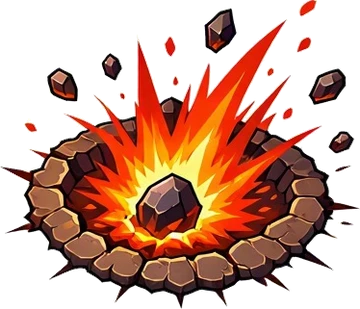
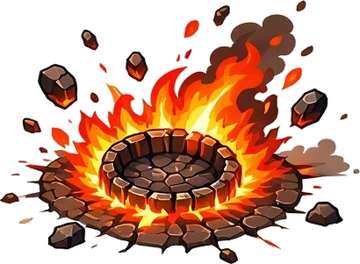
Brann y Merlo con su set nuevo

diff --git a/js/data.js b/js/data.js
@@ -527,8 +527,8 @@ function pickTileTypes(n, rnd, skip) {
    (aria: segundos de congelación · merlo: maná · brann: daño del meteoro). */
 var COMMANDERS = {
   aria:  { name: 'Aria',  title: 'Capitana de Escarcha', color: '#7fd6ff', icon: '🌨', pic: 'assets/commanders/aria.webp?v=3', ability: 'Ventisca',  desc: 'Congela a todos los enemigos 3 segundos.', power: 3, cd: 30, grow: 0.75 },
-  merlo: { name: 'Merlo', title: 'Archimago',            color: '#b26bff', icon: '✨', pic: 'assets/commanders/merlo.webp?v=3', ability: 'Marea de maná', desc: 'Te da 150 de maná al instante, y más en las oleadas avanzadas.', power: 150, cd: 28 },
-  brann: { name: 'Brann', title: 'General Enano',        color: '#ff8f3c', icon: '☄', pic: 'assets/commanders/brann.webp?v=3', ability: 'Meteoro',   desc: 'Caen 6 meteoritos sobre los monstruos más adelantados.', power: 6, cd: 28 },
+  merlo: { name: 'Merlo', title: 'Archimago',            color: '#b26bff', icon: '✨', pic: 'assets/commanders/merlo.webp?v=4', ability: 'Marea de maná', desc: 'Te da 150 de maná al instante, y más en las oleadas avanzadas.', power: 150, cd: 28 },
+  brann: { name: 'Brann', title: 'General Enano',        color: '#ff8f3c', icon: '☄', pic: 'assets/commanders/brann.webp?v=4', ability: 'Meteoro',   desc: 'Caen 6 meteoritos sobre los monstruos más adelantados.', power: 6, cd: 28 },
   // los cuatro nuevos (de assets/pack-nyx-sol-morgana-tormal.jpg) empiezan
   // bloqueados (locked) y se consiguen en los cofres
   nyx:   { name: 'Nyx',   title: 'Hechicera del Eclipse', color: '#c04bff', icon: '🌑', locked: true, pic: 'assets/commanders/nyx.webp?v=3', ability: 'Maldición', desc: 'Los monstruos reciben un 60% más de daño durante 8 segundos.', power: 8, cd: 28 },
@@ -539,7 +539,7 @@ var COMMANDERS = {
   torvald: { name: 'Torvald', title: 'Viejo Maestro', color: '#ff7a3c', icon: '🧮', locked: true, pic: 'assets/commanders/torvald.webp?v=3', hero: 1, ability: 'Forja', desc: 'Eliges una tropa y sube un rango, hasta el 5.', power: 1, cd: 90, grow: 0.6 }
 };
 var COMMANDER_ORDER = ['aria', 'merlo', 'brann', 'nyx', 'sol', 'morgana', 'torvald'];
-COMMANDER_ORDER.forEach(function (k) { var c = COMMANDERS[k]; c.body = c.gen ? '' : 'assets/commanders/' + k + '-cuerpo.webp?v=4'; });
+COMMANDER_ORDER.forEach(function (k) { var c = COMMANDERS[k]; c.body = c.gen ? '' : 'assets/commanders/' + k + '-cuerpo.webp?v=' + (k === 'brann' || k === 'merlo' ? 5 : 4); });
 // niveles de comandante: cada nivel, +CMD_BONUS de fuerza en su habilidad.
 // Sus cartas salen solo en el cofre de comandante (pocas), por eso piden menos.
 // Del 11 al 25 cada nivel da menos (CMD_BONUS_HIGH) y pide bastante más.

diff --git a/js/art.js b/js/art.js
@@ -60,6 +60,7 @@ var ASSET_VER = { 'fx/fusion': 2, 'fx/fusion-eco': 2, 'fx/invocar': 2, 'fx/estad
 ASSET_VER['units/garra'] = 4;
 // efectos de los comandantes redibujados (assets/comandantes/*-set.jpg)
 ['ventisca', 'marea', 'meteoro', 'crater', 'nyx-maldicion', 'nyx-chispas', 'sol-escudo', 'morgana-ensamblaje', 'torvald-forja', 'torvald-carga'].forEach(function (k) { ASSET_VER['fx/' + k] = 3; });
+['crater', 'meteoro', 'marea'].forEach(function (k) { ASSET_VER['fx/' + k] = 4; }); // Brann y Merlo, set 2
 function assetV(key) { return ASSET_VER[key] ? '?v=' + ASSET_VER[key] : ''; }
 // tropas sin aura en su casilla
 var NO_CELL_AURA = { eco: true, marea: true, frida: true, pyra: true, valka: true, hilda: true, tilo: true, elian: true };

diff --git a/sw.js b/sw.js
@@ -6,7 +6,7 @@
 // archivo por su cuenta: si uno falla, los demás se quedan. El arte (EXTRA)
 // se baja después, de pocos en pocos y sin bloquear, y lo que se vaya
 // usando se guarda igualmente al pedirlo.
-var CACHE = 'reino-de-torres-v97';
+var CACHE = 'reino-de-torres-v98';
 // tropas con el dibujo nuevo (assets/personajes)
 var NEW_ART = ['cronos', 'eco', 'garra', 'halcon', 'kaia', 'lyra', 'oria', 'rocco', 'seren', 'sombra', 'titan', 'fenix'];
 var CORE = ['./', 'index.html', 'style.css', 'favicon.svg', 'manifest.json', 'js/data.js', 'js/version.js', 'js/art.js', 'js/meta.js', 'js/board.js', 'js/battle.js', 'js/music.js', 'js/ui.js',

diff --git a/js/version.js b/js/version.js
@@ -7,8 +7,15 @@
    La ventana sale sola al entrar con una versión nueva (meta.lastSeenVersion)
    y también desde Opciones.
    ========================================================= */
-var APP_VERSION = '1.31.1';
+var APP_VERSION = '1.31.2';
 var APP_PATCH_NOTES = [
+  {
+    version: '1.31.2',
+    summary: 'Brann y Merlo retocados',
+    items: [
+      'Brann y Merlo estrenan retrato y figura, con meteoros, cráter y marea de maná nuevos.'
+    ]
+  },
   {
     version: '1.31.1',
     summary: 'Comandantes a su tamaño y botón de mejorar nuevo',

diff --git a/index.html b/index.html
@@ -57,9 +57,9 @@
   <div id="overlay" class="overlay" hidden></div>
   <div id="toast" class="toast"></div>
 
-  <script src="js/data.js?v=57"></script>
-  <script src="js/version.js?v=59"></script>
-  <script src="js/art.js?v=51"></script>
+  <script src="js/data.js?v=58"></script>
+  <script src="js/version.js?v=60"></script>
+  <script src="js/art.js?v=52"></script>
   <script src="js/meta.js?v=36"></script>
   <script src="js/board.js?v=56"></script>
   <script src="js/battle.js?v=67"></script>
